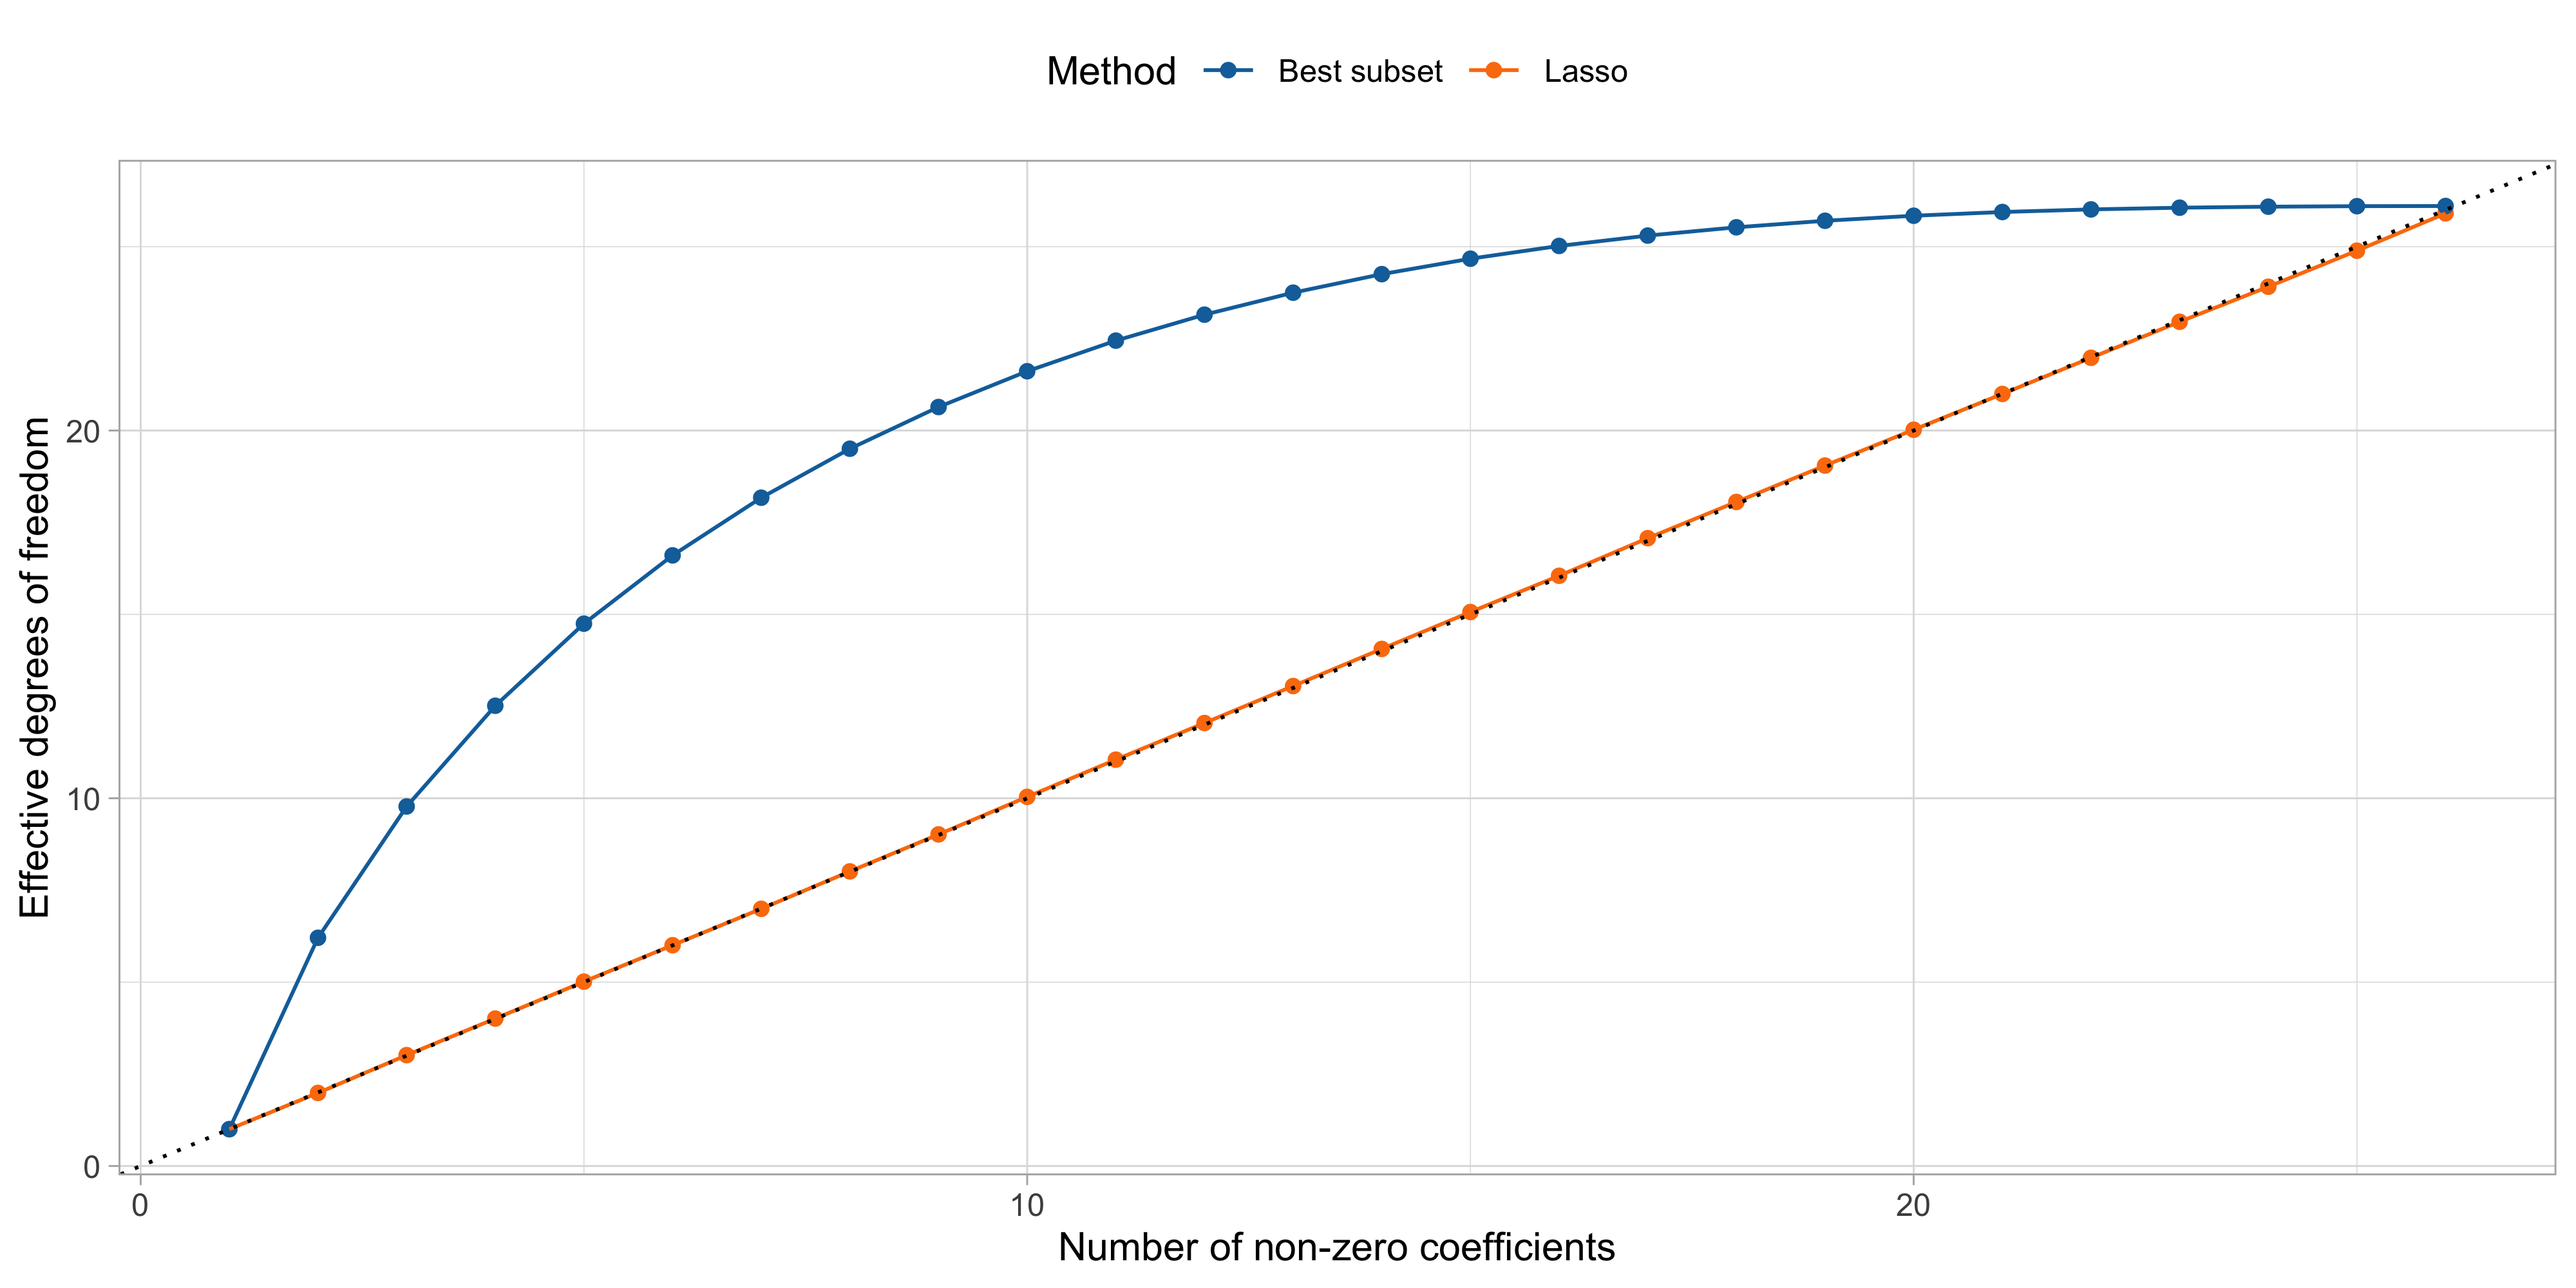
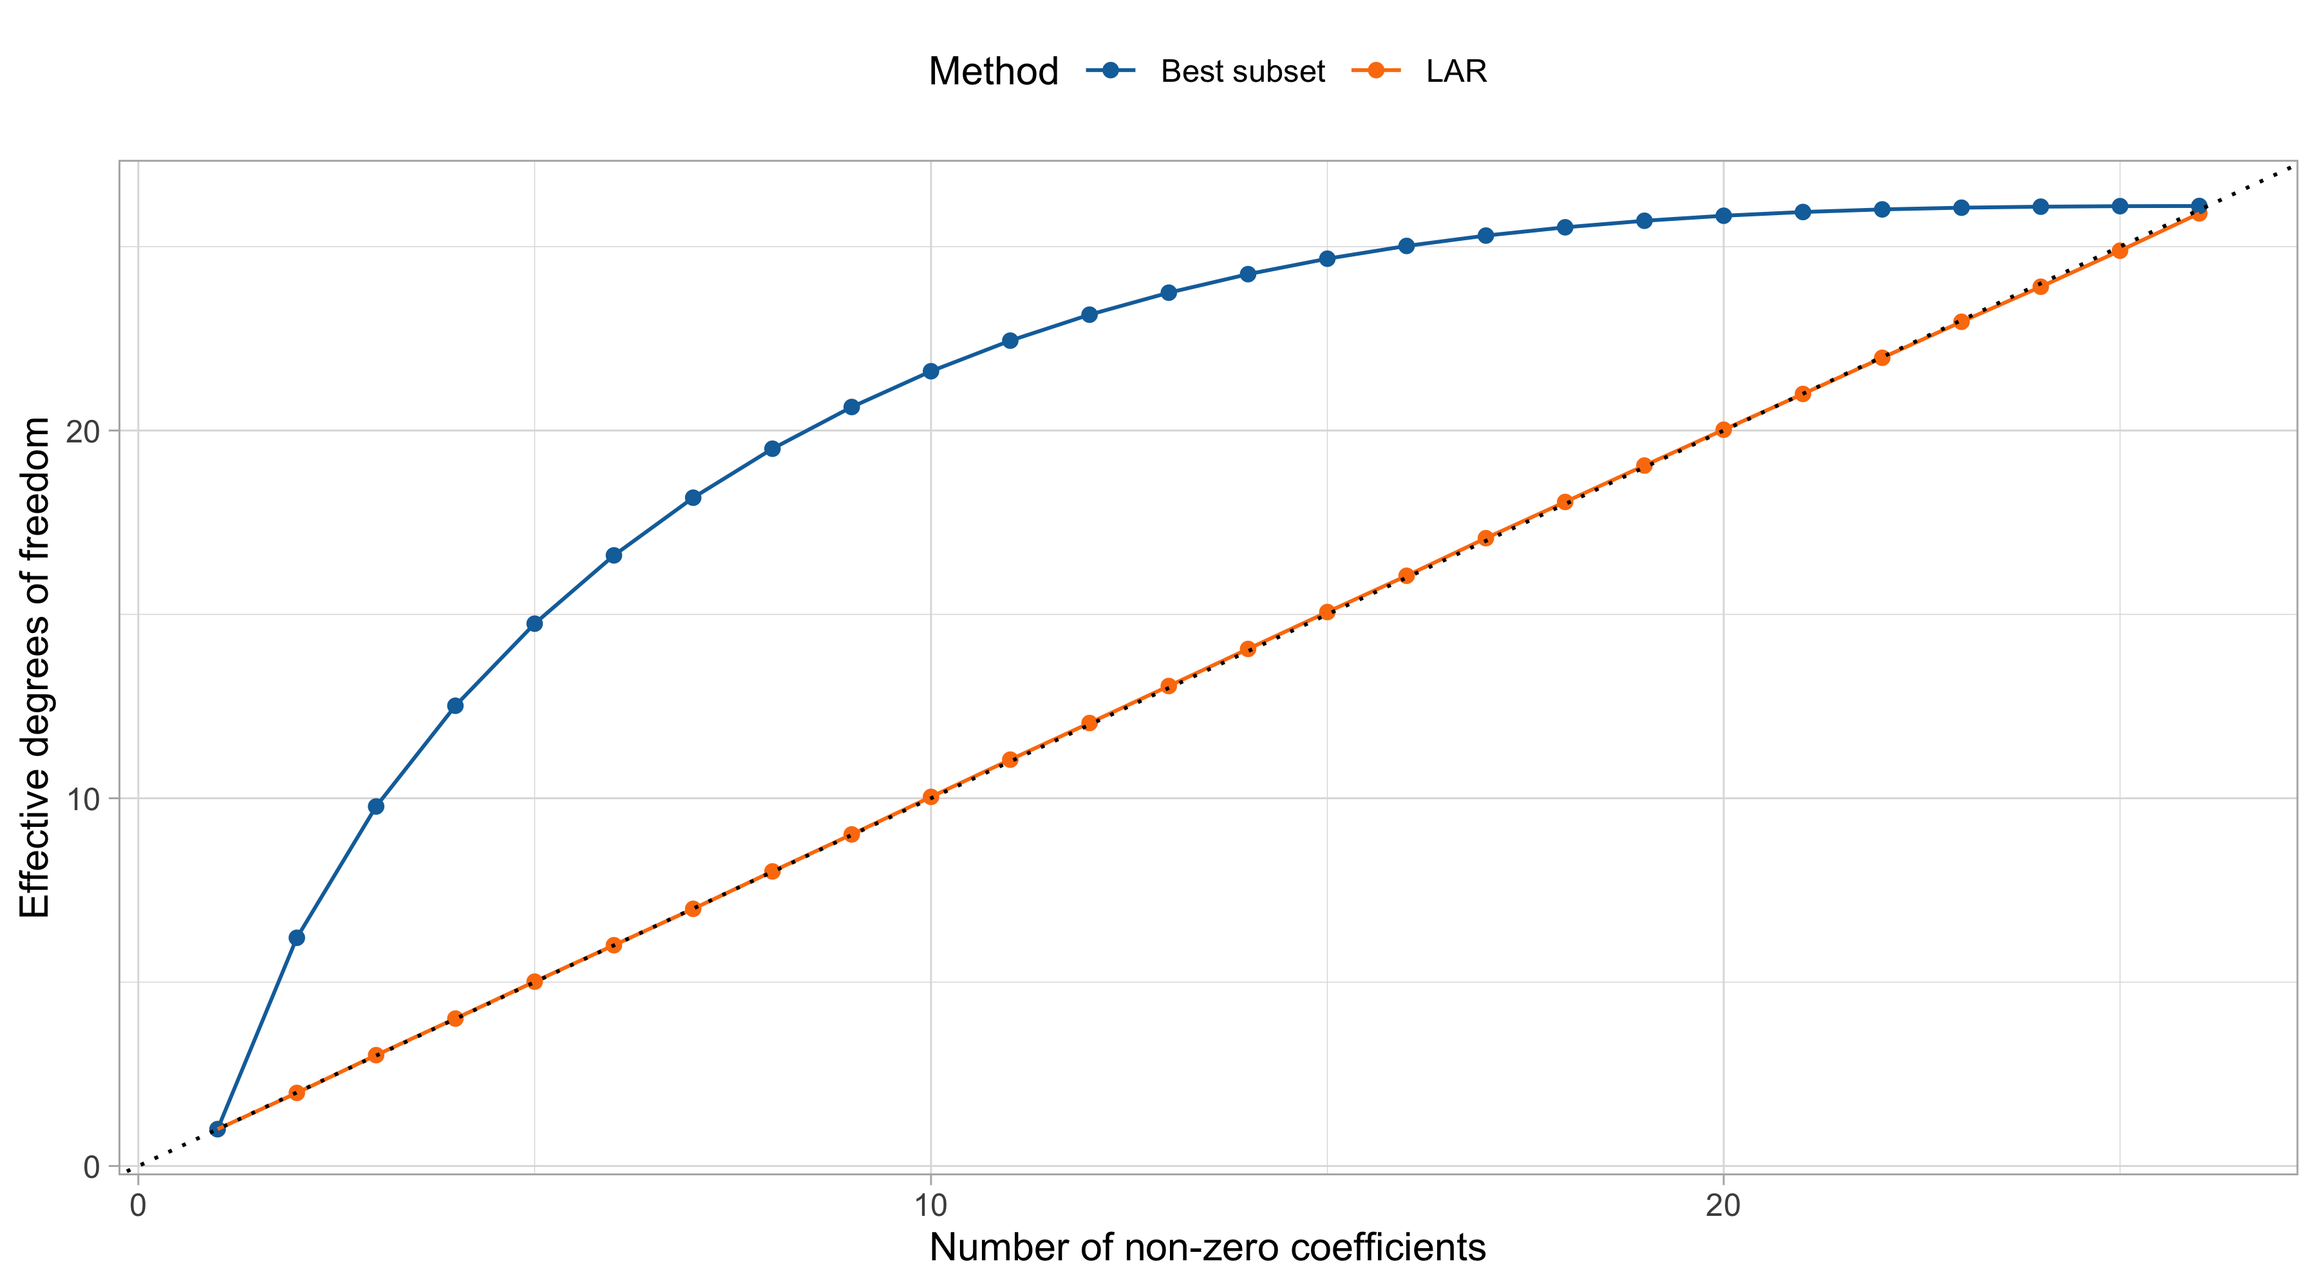
asd

diff --git a/slides/un_C.html b/slides/un_C.html
@@ -158,15 +158,15 @@ ul.task-list li input[type="checkbox"] {
   <li><a href="#lasso-and-lar-relationship" id="toc-lasso-and-lar-relationship" class="nav-link" data-scroll-target="#lasso-and-lar-relationship">☠ - Lasso and LAR relationship</a></li>
   <li><a href="#uniqueness-of-the-lasso-solution" id="toc-uniqueness-of-the-lasso-solution" class="nav-link" data-scroll-target="#uniqueness-of-the-lasso-solution">Uniqueness of the lasso solution</a></li>
   <li><a href="#the-degrees-of-freedom-of-the-lasso" id="toc-the-degrees-of-freedom-of-the-lasso" class="nav-link" data-scroll-target="#the-degrees-of-freedom-of-the-lasso">The degrees of freedom of the lasso</a></li>
-  <li><a href="#effective-degrees-of-freedom-of-lasso-and-best-subset" id="toc-effective-degrees-of-freedom-of-lasso-and-best-subset" class="nav-link" data-scroll-target="#effective-degrees-of-freedom-of-lasso-and-best-subset">Effective degrees of freedom of lasso and best subset</a></li>
+  <li><a href="#effective-degrees-of-freedom-of-lar-and-best-subset" id="toc-effective-degrees-of-freedom-of-lar-and-best-subset" class="nav-link" data-scroll-target="#effective-degrees-of-freedom-of-lar-and-best-subset">☠ - Effective degrees of freedom of LAR and best subset</a></li>
   <li><a href="#cross-validation-for-lasso" id="toc-cross-validation-for-lasso" class="nav-link" data-scroll-target="#cross-validation-for-lasso">Cross-validation for lasso</a></li>
   <li><a href="#the-lar-lasso-estimate" id="toc-the-lar-lasso-estimate" class="nav-link" data-scroll-target="#the-lar-lasso-estimate">The LAR (lasso) estimate</a></li>
   <li><a href="#summary-of-lars-and-lasso" id="toc-summary-of-lars-and-lasso" class="nav-link" data-scroll-target="#summary-of-lars-and-lasso">Summary of LARS and lasso</a></li>
   <li><a href="#a-comparison-between-pcr-ridge-and-lasso" id="toc-a-comparison-between-pcr-ridge-and-lasso" class="nav-link" data-scroll-target="#a-comparison-between-pcr-ridge-and-lasso">A comparison between PCR, ridge, and lasso</a></li>
   <li><a href="#summary-of-the-estimated-coefficients" id="toc-summary-of-the-estimated-coefficients" class="nav-link" data-scroll-target="#summary-of-the-estimated-coefficients">Summary of the estimated coefficients</a></li>
   <li><a href="#the-results-on-the-test-set" id="toc-the-results-on-the-test-set" class="nav-link" data-scroll-target="#the-results-on-the-test-set">The results on the test set</a></li>
-  </ul></li>
   <li><a href="#elastic-net" id="toc-elastic-net" class="nav-link" data-scroll-target="#elastic-net">Elastic net</a></li>
+  </ul></li>
   <li><a href="#computations" id="toc-computations" class="nav-link" data-scroll-target="#computations">Computations</a>
   <ul class="collapse">
   <li><a href="#computations-for-ridge-lasso-and-elastic-net" id="toc-computations-for-ridge-lasso-and-elastic-net" class="nav-link" data-scroll-target="#computations-for-ridge-lasso-and-elastic-net">Computations for ridge, lasso and elastic net</a></li>
@@ -1817,15 +1817,62 @@ Practical details
 </section>
 <section id="uniqueness-of-the-lasso-solution" class="level2">
 <h2 class="anchored" data-anchor-id="uniqueness-of-the-lasso-solution">Uniqueness of the lasso solution</h2>
+<ul>
+<li>The lasso can be computed even when <span class="math inline">p &gt; n</span>. In those cases, will it be <span class="orange">unique</span>?</li>
+</ul>
+<div class="callout callout-style-simple callout-note no-icon callout-titled">
+<div class="callout-header d-flex align-content-center">
+<div class="callout-icon-container">
+<i class="callout-icon no-icon"></i>
+</div>
+<div class="callout-title-container flex-fill">
+Three uniqueness results
+</div>
+</div>
+<div class="callout-body-container callout-body">
+<ul>
+<li><p>If <span class="math inline">\bm{X}</span> has <span class="blue">full rank</span> <span class="math inline">\text{rk}(\bm{X}) = p</span>, which implies <span class="math inline">p \le n</span>, then <span class="math inline">\hat{\beta}_\text{lasso}</span> is uniquely determined.</p></li>
+<li><p>If <span class="orange">all</span> the values of <span class="math inline">\bm{X}</span> are <span class="orange">different</span>, then <span class="math inline">\hat{\beta}_\text{lasso}</span> is uniquely determined, even when <span class="math inline">p &gt; n</span>.</p></li>
+<li><p>The <span class="blue">predictions</span> <span class="math inline">\bm{X}\hat{\beta}_\text{lasso}</span> are always uniquely determined.</p></li>
+</ul>
+</div>
+</div>
+<ul>
+<li><p>Non-uniqueness occurs in presence of <span class="orange">discrete-valued</span> data. It is of practical concern only whenever <span class="math inline">p &gt; n</span> and if we are interested in interpreting the coefficients.</p></li>
+<li><p>Much more <span class="blue">general</span> sufficient conditions for the uniqueness of <span class="math inline">\hat{\beta}_\text{lasso}</span> are known, but they are quite technical and hard to check in practice.</p></li>
+</ul>
 </section>
 <section id="the-degrees-of-freedom-of-the-lasso" class="level2">
 <h2 class="anchored" data-anchor-id="the-degrees-of-freedom-of-the-lasso">The degrees of freedom of the lasso</h2>
+<ul>
+<li>In ridge regression, the <span class="blue">effective degrees of freedom</span> have a simple formula.</li>
+</ul>
+<ul>
+<li><span class="orange">Miraculously</span>, one can show that for the lasso, with a fixed penalty parameter <span class="math inline">\lambda</span>, the number of nonzero coefficients <span class="math inline">|\mathcal{A}_\text{lasso}(\lambda)|</span> is an <span class="blue">unbiased estimate</span> of the degrees of freedom.</li>
+</ul>
+<ul>
+<li>More formally, suppose <span class="math inline">\bm{X}</span> has <span class="orange">full rank</span> <span class="math inline">\text{rk}(\bm{X}) = p</span> and <span class="math inline">\bm{y}</span> follows a Gaussian law. Then: <span class="math display">
+\text{df}_\text{lasso} = 1 + \mathbb{E}|\mathcal{A}_\text{lasso}(\lambda)|.
+</span></li>
+</ul>
+<ul>
+<li>The above relationship is <span class="blue">exact</span> if we consider the <span class="orange">LAR active set</span> and under further conditions, implicitly using a different set of <span class="math inline">\lambda</span> values for any fit: <span class="math display">
+\text{df}_\text{lar} = 1 + |\mathcal{A}|.
+</span></li>
+</ul>
+<ul>
+<li>Generalizations of these results to the <span class="math inline">p &gt; n</span> case are possible.</li>
+</ul>
 </section>
-<section id="effective-degrees-of-freedom-of-lasso-and-best-subset" class="level2">
-<h2 class="anchored" data-anchor-id="effective-degrees-of-freedom-of-lasso-and-best-subset">Effective degrees of freedom of lasso and best subset</h2>
-<div class="cell" data-hash="un_C_cache/html/unnamed-chunk-33_9b0b0a2ac153444506ff405ac264c4ea">
+<section id="effective-degrees-of-freedom-of-lar-and-best-subset" class="level2">
+<h2 class="anchored" data-anchor-id="effective-degrees-of-freedom-of-lar-and-best-subset">☠ - Effective degrees of freedom of LAR and best subset</h2>
+<div class="cell" data-layout-align="center" data-hash="un_C_cache/html/unnamed-chunk-33_0fd4fbf48694afc4287ec2f17139542d">
 <div class="cell-output-display">
-<p><img src="un_C_files/figure-html/unnamed-chunk-33-1.png" class="img-fluid" width="1400"></p>
+<div class="quarto-figure quarto-figure-center">
+<figure class="figure">
+<p><img src="un_C_files/figure-html/unnamed-chunk-33-1.png" class="img-fluid figure-img" width="1800"></p>
+</figure>
+</div>
 </div>
 </div>
 </section>
@@ -1843,7 +1890,7 @@ Practical details
 </section>
 <section id="the-lar-lasso-estimate" class="level2">
 <h2 class="anchored" data-anchor-id="the-lar-lasso-estimate">The LAR (lasso) estimate</h2>
-<div class="cell" data-layout-align="center" data-hash="un_C_cache/html/unnamed-chunk-37_bda5950ec665f281e956670bc1e96c34">
+<div class="cell" data-layout-align="center" data-hash="un_C_cache/html/unnamed-chunk-37_01571b78dba2495ca6d56929ffb072d1">
 <div class="cell-output-display">
 <div class="quarto-figure quarto-figure-center">
 <figure class="figure">
@@ -1900,9 +1947,9 @@ Practical details
 </div>
 </div>
 </section>
+<section id="elastic-net" class="level2">
+<h2 class="anchored" data-anchor-id="elastic-net">Elastic net</h2>
 </section>
-<section id="elastic-net" class="level1">
-<h1>Elastic net</h1>
 </section>
 <section id="computations" class="level1">
 <h1>Computations</h1>

diff --git a/slides/un_C_slides.html b/slides/un_C_slides.html
@@ -1977,14 +1977,14 @@ f(\bm{z}_i; \gamma) = \gamma_1 z_{i1} + \cdots + \gamma_kz_{ik}, \qquad i=1,\dot
 </div>
 <div class="fragment">
 <ul>
-<li>Generalizations of these results to the <span class="math inline">p &gt; n</span> are possible.</li>
+<li>Generalizations of these results to the <span class="math inline">p &gt; n</span> case are possible.</li>
 </ul>
 </div>
 </section>
 <section id="effective-degrees-of-freedom-of-lar-and-best-subset" class="slide level2 center">
 <h2>☠ - Effective degrees of freedom of LAR and best subset</h2>
 
-<img data-src="un_C_files/figure-revealjs/unnamed-chunk-33-1.png" width="2000" class="r-stretch"></section>
+<img data-src="un_C_files/figure-revealjs/unnamed-chunk-33-1.png" width="1800" class="r-stretch quarto-figure-center"></section>
 <section id="cross-validation-for-lasso" class="slide level2 center">
 <h2>Cross-validation for lasso</h2>
 
@@ -2039,12 +2039,10 @@ f(\bm{z}_i; \gamma) = \gamma_1 z_{i1} + \cdots + \gamma_kz_{ik}, \qquad i=1,\dot
 </table>
 </div>
 </div>
-</section></section>
-<section id="elastic-net" class="title-slide slide level1 center">
-<h1>Elastic net</h1>
-
 </section>
-
+<section id="elastic-net" class="slide level2 center">
+<h2>Elastic net</h2>
+</section></section>
 <section>
 <section id="computations" class="title-slide slide level1 center">
 <h1>Computations</h1>
